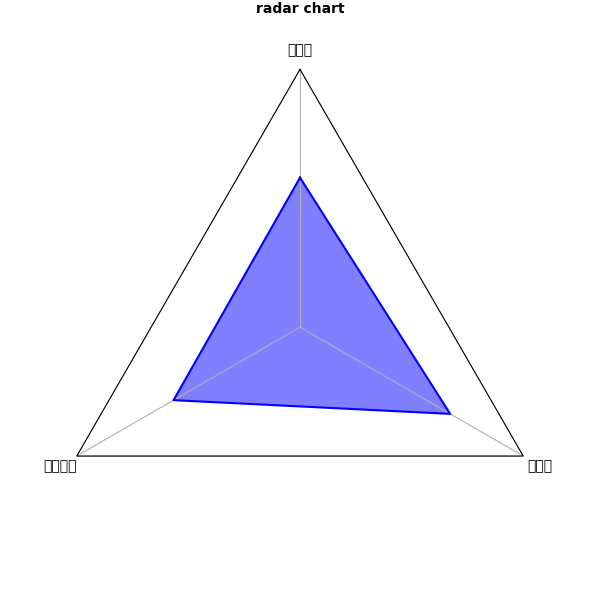
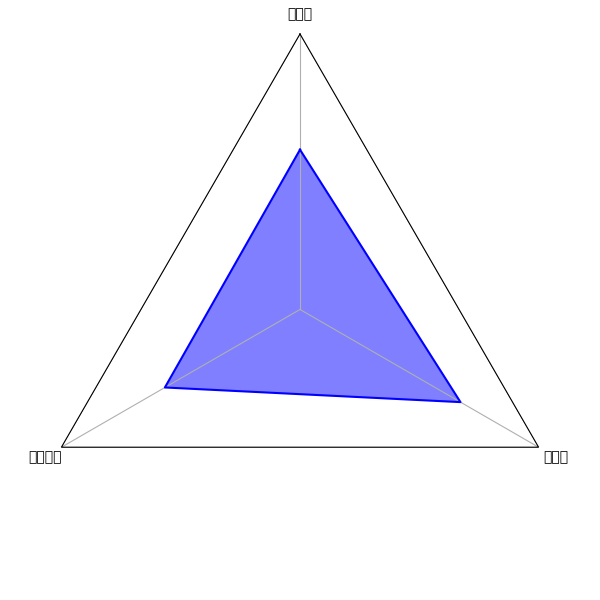
remove reranking flow

diff --git a/create_graph.py b/create_graph.py
@@ -18,18 +18,18 @@ rcParams.update({'figure.autolayout': True})
 
 
 # load job_category
-with open('job_category.csv', 'r') as f:
-	job_category_list = f.readlines()
-	# job_category_list = [(j.split('\t')[0], j.split('\t')[2]) for j in job_category_list]
-	job_category_index = {}
-	for job_category in job_category_list:
-		job_category = job_category.split(',')
-		job_name = ''.join([job_category[0], job_category[1]])
-		if job_category[1] in job_category_index.keys():
-			job_category_index[job_category[2]] += [job_name]
-		else:
-			job_category_index[job_category[2]] = [job_name]
-print(job_category_index)
+# with open('job_category.csv', 'r') as f:
+# 	job_category_list = f.readlines()
+# 	# job_category_list = [(j.split('\t')[0], j.split('\t')[2]) for j in job_category_list]
+# 	job_category_index = {}
+# 	for job_category in job_category_list:
+# 		job_category = job_category.split(',')
+# 		job_name = ''.join([job_category[0], job_category[1]])
+# 		if job_category[1] in job_category_index.keys():
+# 			job_category_index[job_category[2]] += [job_name]
+# 		else:
+# 			job_category_index[job_category[2]] = [job_name]
+# print(job_category_index)
 
 BAR_IMG = 'bar.png'
 RADAR_IMG = 'radar.png'
@@ -164,7 +164,7 @@ def create_radarchart(dream_data):
 	data = dream_data
 	N = 3
 	theta = radar_factory(N, frame='polygon')
-	Title = 'radar chart'
+	Title = ''
 	#spoke = 'abc'
 	spoke_labels = ['こせい', 'ゆうめい', 'おかね']
 	color = 'b'
@@ -195,26 +195,26 @@ def create_radarchart(dream_data):
 		# return ax
 
 
-def reranking(rank_list):
-	rerank_list = []
-	job_category = job_category_index
-	job_category_items = [j for j in job_category.items()]
-	# print(type(job_category_items))
-
-	for r in rank_list:
-		for j in job_category_items:
-			if r['no'] in j[1]:
-				rerank_list.append(r)
-				job_category_items.remove(j)
-				break
-
-	return rerank_list
+# def reranking(rank_list):
+# 	rerank_list = []
+# 	job_category = job_category_index
+# 	job_category_items = [j for j in job_category.items()]
+# 	# print(type(job_category_items))
+#
+# 	for r in rank_list:
+# 		for j in job_category_items:
+# 			if r['no'] in j[1]:
+# 				rerank_list.append(r)
+# 				job_category_items.remove(j)
+# 				break
+#
+# 	return rerank_list
 
 
 def create_graph(result):
-	rerank_list = reranking(result['rank'])
+	# rerank_list = reranking(result['rank'])
 
-	create_bar(rerank_list)
+	create_bar(result['rank'])
 	create_radarchart(result['dream'])
 	bar_img = cv2.imread(BAR_IMG)
 	radar_img = cv2.imread(RADAR_IMG)
